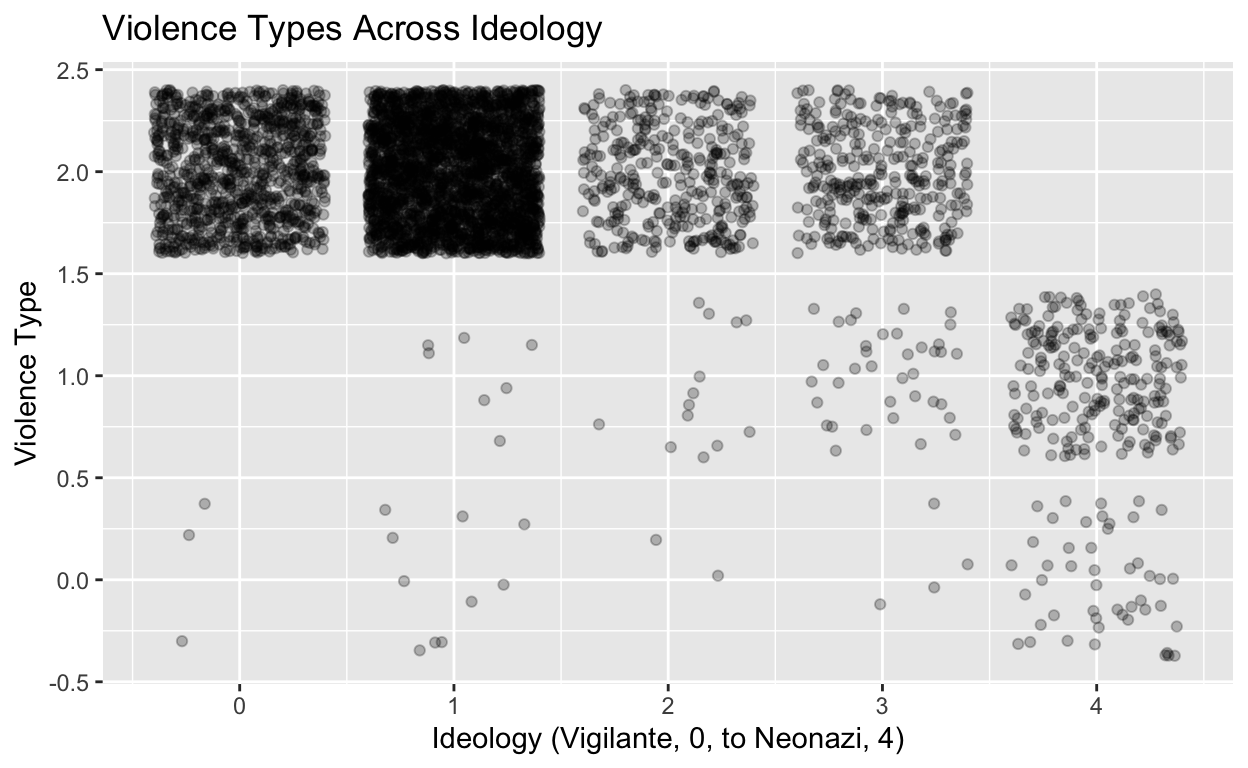
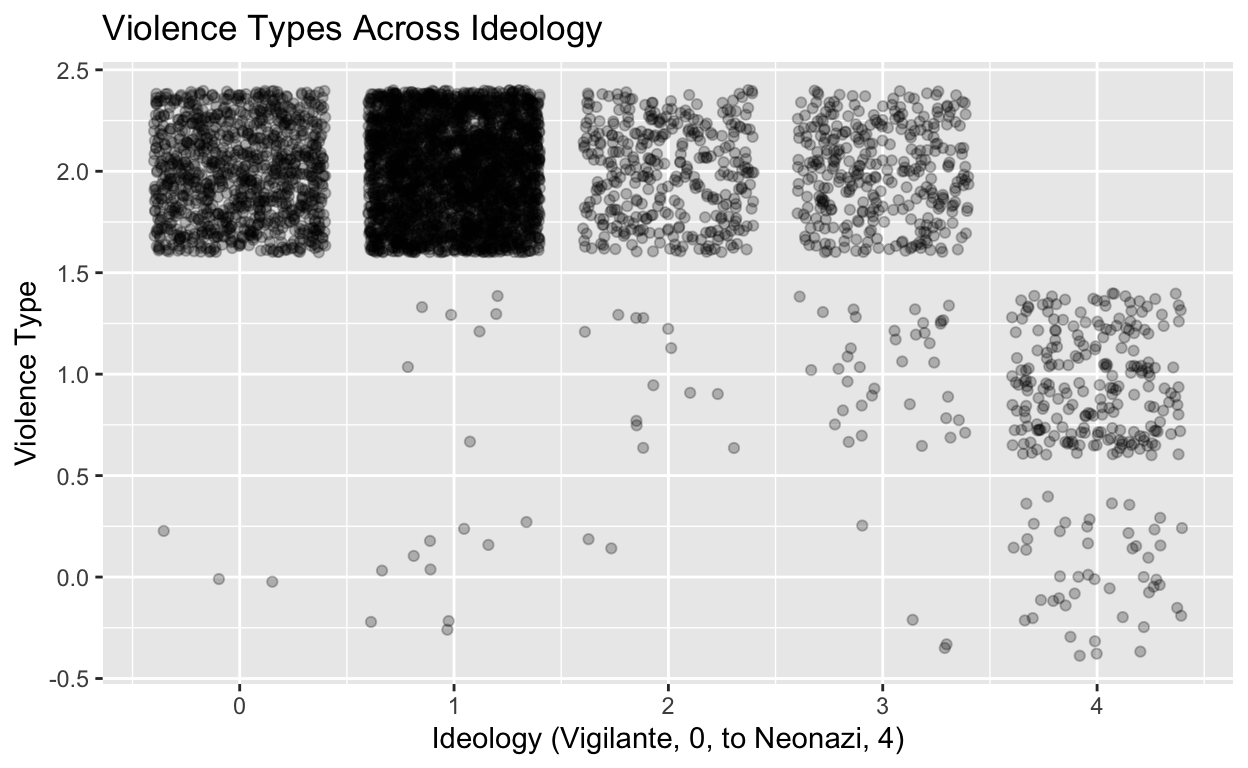
knit

diff --git a/index.html b/index.html
@@ -88,29 +88,29 @@ code span.wa { color: #5e5e5e; font-style: italic; } /* Warning */
 
 
   <!--radix_placeholder_meta_tags-->
-  <title>Gov 50 Final Project</title>
+  <title>Terrorist Ideology, Violence Type, and Selectivity</title>
 
-  <meta property="description" itemprop="description" content="Terrorist Ideology, Violence Type, and Selectivity"/>
+  <meta property="description" itemprop="description" content="A report to identify a causal relationship between terrorist ideology and types of violence as well as selectivity of attacks."/>
 
 
   <meta name="article:author" content="Emma Lucas"/>
 
   <!--  https://developers.facebook.com/docs/sharing/webmasters#markup -->
-  <meta property="og:title" content="Gov 50 Final Project"/>
+  <meta property="og:title" content="Terrorist Ideology, Violence Type, and Selectivity"/>
   <meta property="og:type" content="article"/>
-  <meta property="og:description" content="Terrorist Ideology, Violence Type, and Selectivity"/>
+  <meta property="og:description" content="A report to identify a causal relationship between terrorist ideology and types of violence as well as selectivity of attacks."/>
   <meta property="og:locale" content="en_US"/>
 
   <!--  https://dev.twitter.com/cards/types/summary -->
   <meta property="twitter:card" content="summary"/>
-  <meta property="twitter:title" content="Gov 50 Final Project"/>
-  <meta property="twitter:description" content="Terrorist Ideology, Violence Type, and Selectivity"/>
+  <meta property="twitter:title" content="Terrorist Ideology, Violence Type, and Selectivity"/>
+  <meta property="twitter:description" content="A report to identify a causal relationship between terrorist ideology and types of violence as well as selectivity of attacks."/>
 
   <!--/radix_placeholder_meta_tags-->
   <!--radix_placeholder_rmarkdown_metadata-->
 
   <script type="text/json" id="radix-rmarkdown-metadata">
-  {"type":"list","attributes":{"names":{"type":"character","attributes":{},"value":["title","author","description","output"]}},"value":[{"type":"character","attributes":{},"value":["Gov 50 Final Project"]},{"type":"list","attributes":{},"value":[{"type":"list","attributes":{"names":{"type":"character","attributes":{},"value":["name"]}},"value":[{"type":"character","attributes":{},"value":["Emma Lucas"]}]}]},{"type":"character","attributes":{},"value":["Terrorist Ideology, Violence Type, and Selectivity"]},{"type":"list","attributes":{"names":{"type":"character","attributes":{},"value":["distill::distill_article"]}},"value":[{"type":"list","attributes":{"names":{"type":"character","attributes":{},"value":["self_contained"]}},"value":[{"type":"logical","attributes":{},"value":[false]}]}]}]}
+  {"type":"list","attributes":{"names":{"type":"character","attributes":{},"value":["title","author","description","output"]}},"value":[{"type":"character","attributes":{},"value":["Terrorist Ideology, Violence Type, and Selectivity"]},{"type":"list","attributes":{},"value":[{"type":"list","attributes":{"names":{"type":"character","attributes":{},"value":["name"]}},"value":[{"type":"character","attributes":{},"value":["Emma Lucas"]}]}]},{"type":"character","attributes":{},"value":["A report to identify a causal relationship between terrorist ideology and types of violence as well as selectivity of attacks."]},{"type":"list","attributes":{"names":{"type":"character","attributes":{},"value":["distill::distill_article"]}},"value":[{"type":"list","attributes":{"names":{"type":"character","attributes":{},"value":["self_contained"]}},"value":[{"type":"logical","attributes":{},"value":[false]}]}]}]}
   </script>
   <!--/radix_placeholder_rmarkdown_metadata-->
   
@@ -1520,7 +1520,7 @@ code span.wa { color: #5e5e5e; font-style: italic; } /* Warning */
 <!--radix_placeholder_front_matter-->
 
 <script id="distill-front-matter" type="text/json">
-{"title":"Gov 50 Final Project","description":"Terrorist Ideology, Violence Type, and Selectivity","authors":[{"author":"Emma Lucas","authorURL":"#","affiliation":"&nbsp;","affiliationURL":"#","orcidID":""}]}
+{"title":"Terrorist Ideology, Violence Type, and Selectivity","description":"A report to identify a causal relationship between terrorist ideology and types of violence as well as selectivity of attacks.","authors":[{"author":"Emma Lucas","authorURL":"#","affiliation":"&nbsp;","affiliationURL":"#","orcidID":""}]}
 </script>
 
 <!--/radix_placeholder_front_matter-->
@@ -1530,11 +1530,11 @@ code span.wa { color: #5e5e5e; font-style: italic; } /* Warning */
 <!--/radix_placeholder_site_before_body-->
 
 <div class="d-title">
-<h1>Gov 50 Final Project</h1>
+<h1>Terrorist Ideology, Violence Type, and Selectivity</h1>
 
 <!--radix_placeholder_categories-->
 <!--/radix_placeholder_categories-->
-<p>Terrorist Ideology, Violence Type, and Selectivity</p>
+<p>A report to identify a causal relationship between terrorist ideology and types of violence as well as selectivity of attacks.</p>
 </div>
 
 <div class="d-byline">
@@ -1545,14 +1545,11 @@ code span.wa { color: #5e5e5e; font-style: italic; } /* Warning */
 </div>
 
 <div class="d-article">
-<h2 id="introduction-describe-the-research-question-and-main-hypothesis-describe-why-it-is-important.-1-2-paragraphs-2pts">Introduction: describe the research question and main hypothesis; describe why it is important. (1-2 paragraphs) (2pts)</h2>
-<p>For my final project, I was interested in exploring data related to domestic terrorism, violence, and ideology. How does the ideological orientation of domestic terrorist perpetrators influence, if at all, the type of political violence and the selectivity of said violence? In this study, I examined whether or not certain types and selectivity of terrorist violence can indicate patterns and trends within specific ideologies.</p>
-<p>I hypothesise that less extreme ideologies will have less organised and wide-scale types of violence and that they will be less selective in their attacks. Less extreme ideologies, while still passionate about their causes, are less likely to take greater steps to ensure their causes. The more the ideology deviates from the norm, the more inclined terrorist organisations are to act out to bring attention to their cause. I also predict that less extreme ideologies will be smaller-scaled in terms of selectivity whereas more extreme ideologies will be larger-scaled. My explanatory variable of interest is what ideology the terrorist group aligns with.</p>
-<h2 id="data-section-2-3-paragraphs-plot-visualizing-main-outcome-of-interest.-3pts">Data Section: 2-3 paragraphs + plot visualizing main outcome of interest. (3pts)</h2>
-<p>The dataset currently holds information on all terrorist attacks from 1965 to 2005 carried out by domestic terrorist organizations in European nations. Each data point represents an individually killed as a directly result of the terrorist attack. To gather the data, researchers relied on pre-existing datasets of terrorist killings (mainly TWEED and Global Terrorism Database), as well as information from NGOs, websites dedicated in memory to victims, local and state news reports, annual government reports, and sometimes even reports from terrorist organisations themselves. These sources were cross-referenced, and the researchers acknowledge that this could give way to issues of under-reporting.</p>
-<p>My research is cross-sectional, as it uses data from a particular point in time to draw conclusions. While the data contains information from the years 1965 to 2005, it does not analysis whether domestic terrorists attacks have changed over time, and thus all data points can be treated as a “snapshot.” In other words, time was not a variable in the dataset. The dataset focuses on correlation and patterns rather than causal effects due to the nature of the data collection. Thus, there are no explicitly defined independent or dependent variables in the dataset. However, my study tests whether a causal relationship could exist between the independent variable, Ideology, and dependent variables, ViolenceType and Selectivity.</p>
-<p>In the dataset, Ideology represents the ideological orientation of the perpetrators, an adaptation of Sánchez-Cuenca and De la Calle (2009), ranging from Vigilante (0), Nationalist (1), Extreme-left (2), Extreme-right (3), and Neonazi (4). Ideology is a codified variable, with each view corresponding to a number 0-4. My outcome variables of interests are ViolenceType and Selectivity. Violencetype represents three forms of political violence: urban political violence (0), diffuse terrorism (1), and organised terrorism (2). This variable is also codified from 0-2. Urban political violence refers to non-planned, often gang-related incidents of violence. Diffuse terrorism refers to smaller-scale organisational killings. Organised terrorism refers to planned attacks carried out by organised groups. Finally, Selectivity represents the degree of selectivity of domestic terrorist attacks. Attacks are classified by Individual (selective) killings (1), State killing (security forces and State officials) (2), group killing (social traits) (3), Society killing (4), Collateral killing (5), or Mistake (6).</p>
-<p>If I observe greater numbers of ViolenceType 0-1 and Selectivity 1-3 and 6 in less extreme ideologies, this will provide support for my hypothesis. If I observe greater numbers of ViolenceType 1-2 and Selectivity 3-5 in more extreme ideologies, this will also provide support for my hypothesis. This would be disproved if ViolenceType and Selectivity did not vary across ideology and rather were randomised.</p>
+<h2 id="introduction">Introduction</h2>
+<p>For my final project, I was interested in exploring data related to domestic terrorism, violence, and ideology. How does the ideological orientation of domestic terrorist perpetrators influence, if at all, the type of political violence and the selectivity of said violence? In this study, I examined whether or not certain types and selectivity of terrorist violence can indicate patterns and trends within specific ideologies. I hypothesise that less extreme ideologies will have less organised and less wide-scale types of violence and that they will be less selective in their attacks. Less extreme ideologies, while still passionate about their causes, are less likely to take greater steps to ensure their causes. The more the ideology deviates from the norm, the more inclined terrorist organisations are to act out to bring attention to their cause. I also predict that less extreme ideologies will be smaller-scaled in terms of selectivity whereas more extreme ideologies will be larger-scaled and more selective. Neonazis, for instance, will have a set of targeted groups they wish to insue violence on. My explanatory variable of interest is what ideology the terrorist group aligns with.</p>
+<h2 id="data-section">Data Section</h2>
+<p>The dataset currently holds information on all terrorist attacks from 1965 to 2005 carried out by domestic terrorist organizations in European nations. Each data point represents an individually killed as a directly result of the terrorist attack. To gather the data, researchers relied on pre-existing datasets of terrorist killings (mainly TWEED and Global Terrorism Database), as well as information from NGOs, websites dedicated in memory to victims, local and state news reports, annual government reports, and sometimes even reports from terrorist organisations themselves. These sources were cross-referenced, and the researchers acknowledge that this could give way to issues of under-reporting. In the dataset, Ideology represents the ideological orientation of the perpetrators, an adaptation of Sánchez-Cuenca and De la Calle (2009), ranging from Vigilante (0), Nationalist (1), Extreme-left (2), Extreme-right (3), and Neonazi (4). Ideology is a codified variable, with each view corresponding to a number 0-4. My outcome variables of interests are ViolenceType and Selectivity. Violencetype represents three forms of political violence: urban political violence (0), diffuse terrorism (1), and organised terrorism (2). This variable is also codified from 0-2. Urban political violence refers to non-planned, often gang-related incidents of violence. Diffuse terrorism refers to smaller-scale organisational killings. Organised terrorism refers to planned attacks carried out by organised groups. Finally, Selectivity represents the degree of selectivity of domestic terrorist attacks. Attacks are classified by Individual (selective) killings (1), State killing (security forces and State officials) (2), group killing (social traits) (3), Society killing (4), Collateral killing (5), or Mistake (6).</p>
+<p>My research is cross-sectional and correlational in its design, as it uses data from a particular point in time to draw conclusions. While the data contains information from the years 1965 to 2005, it does not analysis whether domestic terrorists attacks have changed over time, and thus all data points can be treated as a “snapshot.” In other words, time was not a variable in the dataset. The dataset focuses on correlation and patterns rather than causal effects due to the nature of the data collection. Thus, there are no explicitly defined independent or dependent variables in the dataset. However, my study seeks whether a causal relationship exists between my independent variable, Ideology, and dependent variables, ViolenceType and Selectivity. If I observe greater numbers of ViolenceType 0 and 1 and Selectivity 1, 2, and 6 in less extreme ideologies (Ideology 0 and 1), this will provide support for my hypothesis. If I observe greater numbers of ViolenceType 1 and 2 and Selectivity 3-5 in more extreme ideologies (Ideology 2, 3, and 4), this will also provide support for my hypothesis. This would be disproved if ViolenceType and Selectivity did not vary across ideology and rather were randomised.</p>
 <div class="layout-chunk" data-layout="l-body">
 <div class="sourceCode">
 <pre class="sourceCode r"><code class="sourceCode r"><span><span class='co'>#install.packages("distill")</span></span>
@@ -1561,6 +1558,7 @@ code span.wa { color: #5e5e5e; font-style: italic; } /* Warning */
 <span><span class='kw'><a href='https://rdrr.io/r/base/library.html'>library</a></span><span class='op'>(</span><span class='va'><a href='https://haven.tidyverse.org'>haven</a></span><span class='op'>)</span></span>
 <span><span class='kw'><a href='https://rdrr.io/r/base/library.html'>library</a></span><span class='op'>(</span><span class='va'><a href='https://tidyverse.tidyverse.org'>tidyverse</a></span><span class='op'>)</span></span>
 <span><span class='kw'><a href='https://rdrr.io/r/base/library.html'>library</a></span><span class='op'>(</span><span class='va'><a href='https://ggplot2.tidyverse.org'>ggplot2</a></span><span class='op'>)</span></span>
+<span><span class='kw'><a href='https://rdrr.io/r/base/library.html'>library</a></span><span class='op'>(</span><span class='va'><a href='https://github.com/tidymodels/infer'>infer</a></span><span class='op'>)</span></span>
 <span></span>
 <span><span class='va'>DTV_1_2009_1</span> <span class='op'>&lt;-</span> <span class='fu'><a href='https://haven.tidyverse.org/reference/read_spss.html'>read_sav</a></span><span class='op'>(</span><span class='st'>"dataverse_files/DTV 1-2009_1.sav"</span><span class='op'>)</span></span>
 <span><span class='va'>DTV_1_2009_2</span> <span class='op'>&lt;-</span> <span class='fu'><a href='https://haven.tidyverse.org/reference/read_spss.html'>read_sav</a></span><span class='op'>(</span><span class='st'>"dataverse_files/DTV 1-2009_1.sav"</span><span class='op'>)</span></span>
@@ -1580,10 +1578,12 @@ code span.wa { color: #5e5e5e; font-style: italic; } /* Warning */
 </div>
 <p><img src="index_files/figure-html5/unnamed-chunk-1-2.png" width="624" /></p>
 </div>
-<h2 id="results-plot-of-main-analysis-regression-output-2-3-paragraphs-of-description-and-interpretation-of-the-plots-and-regression-including-interpreting-the-main-coefficient-of-interest-and-describing-if-it-is-statistically-significant-and-if-we-should-interpret-it-causally.-this-section-could-be-longer-if-you-choose-to-include-additional-analyses.-8pts">Results: plot of main analysis + regression output + 2-3 paragraphs of description and interpretation of the plots and regression (including interpreting the main coefficient of interest and describing if it is statistically significant and if we should interpret it causally). This section could be longer if you choose to include additional analyses. (8pts)</h2>
+<h2 id="results">Results</h2>
 <div class="layout-chunk" data-layout="l-body">
 <div class="sourceCode">
-<pre class="sourceCode r"><code class="sourceCode r"><span><span class='va'>DTV_1_2009_2</span> <span class='op'>|&gt;</span></span>
+<pre class="sourceCode r"><code class="sourceCode r"><span><span class='co'>#Graphs</span></span>
+<span></span>
+<span><span class='va'>DTV_1_2009_2</span> <span class='op'>|&gt;</span></span>
 <span>  <span class='fu'><a href='https://ggplot2.tidyverse.org/reference/ggplot.html'>ggplot</a></span><span class='op'>(</span><span class='fu'><a href='https://ggplot2.tidyverse.org/reference/aes.html'>aes</a></span><span class='op'>(</span>x <span class='op'>=</span> <span class='va'>ideology</span>, y <span class='op'>=</span> <span class='va'>violencetype</span><span class='op'>)</span><span class='op'>)</span>  <span class='op'>+</span> <span class='fu'><a href='https://ggplot2.tidyverse.org/reference/labs.html'>labs</a></span><span class='op'>(</span>title <span class='op'>=</span> <span class='st'>"Violence Types Across Ideology"</span>, x <span class='op'>=</span> <span class='st'>"Ideology (Vigilante, 0, to Neonazi, 4)"</span>, y <span class='op'>=</span> <span class='st'>"Violence Type"</span><span class='op'>)</span> <span class='op'>+</span> <span class='fu'><a href='https://ggplot2.tidyverse.org/reference/geom_jitter.html'>geom_jitter</a></span><span class='op'>(</span>alpha <span class='op'>=</span> <span class='fl'>0.25</span><span class='op'>)</span></span></code></pre>
 </div>
 <img src="index_files/figure-html5/unnamed-chunk-2-1.png" width="624" />
@@ -1593,23 +1593,8 @@ code span.wa { color: #5e5e5e; font-style: italic; } /* Warning */
 </div>
 <img src="index_files/figure-html5/unnamed-chunk-2-2.png" width="624" />
 <div class="sourceCode">
-<pre class="sourceCode r"><code class="sourceCode r"><span><span class='fu'><a href='https://ggplot2.tidyverse.org/reference/ggplot.html'>ggplot</a></span><span class='op'>(</span><span class='va'>DTV_1_2009_1</span>, <span class='fu'><a href='https://ggplot2.tidyverse.org/reference/aes.html'>aes</a></span><span class='op'>(</span>x <span class='op'>=</span> <span class='va'>ideology</span>, y <span class='op'>=</span> <span class='va'>violencetype</span><span class='op'>)</span><span class='op'>)</span> <span class='op'>+</span></span>
-<span>  <span class='fu'><a href='https://ggplot2.tidyverse.org/reference/geom_jitter.html'>geom_jitter</a></span><span class='op'>(</span>alpha <span class='op'>=</span> <span class='fl'>0.25</span><span class='op'>)</span> <span class='op'>+</span></span>
-<span>  <span class='fu'><a href='https://ggplot2.tidyverse.org/reference/labs.html'>labs</a></span><span class='op'>(</span></span>
-<span>    x <span class='op'>=</span> <span class='st'>"Ideology"</span>,</span>
-<span>    y <span class='op'>=</span> <span class='st'>"Violence Type"</span>,</span>
-<span>    title <span class='op'>=</span> <span class='st'>"Ideology and Violence Type"</span></span>
-<span>  <span class='op'>)</span> <span class='op'>+</span></span>
-<span>  <span class='fu'><a href='https://ggplot2.tidyverse.org/reference/stat_summary.html'>stat_summary_bin</a></span><span class='op'>(</span>fun <span class='op'>=</span> <span class='st'>"mean"</span>, color <span class='op'>=</span> <span class='st'>"indianred1"</span>, size <span class='op'>=</span> <span class='fl'>3</span>,</span>
-<span>                   geom <span class='op'>=</span> <span class='st'>"point"</span>, binwidth <span class='op'>=</span> <span class='fl'>1</span><span class='op'>)</span></span></code></pre>
-</div>
-<img src="index_files/figure-html5/unnamed-chunk-2-3.png" width="624" />
-<div class="sourceCode">
-<pre class="sourceCode r"><code class="sourceCode r"><span><span class='va'>regression</span> <span class='op'>&lt;-</span> <span class='fu'><a href='https://rdrr.io/r/stats/lm.html'>lm</a></span><span class='op'>(</span><span class='va'>ideology</span> <span class='op'>~</span> <span class='va'>selectivity</span> <span class='op'>+</span> <span class='va'>violencetype</span>,</span>
-<span>               data <span class='op'>=</span> <span class='va'>DTV_1_2009_1</span><span class='op'>)</span></span>
-<span><span class='fu'>modelsummary</span><span class='fu'>::</span><span class='fu'><a href='https://rdrr.io/pkg/modelsummary/man/modelsummary.html'>modelsummary</a></span><span class='op'>(</span><span class='va'>regression</span>,</span>
-<span>                           statistic <span class='op'>=</span> <span class='fu'><a href='https://rdrr.io/r/base/c.html'>c</a></span><span class='op'>(</span><span class='st'>"s.e. = {std.error}"</span>,</span>
-<span>                                         <span class='st'>"p = {p.value}"</span><span class='op'>)</span>,</span>
+<pre class="sourceCode r"><code class="sourceCode r"><span><span class='va'>selectivity_regression</span> <span class='op'>&lt;-</span> <span class='fu'><a href='https://rdrr.io/r/stats/lm.html'>lm</a></span><span class='op'>(</span><span class='va'>selectivity</span> <span class='op'>~</span> <span class='fu'><a href='https://rdrr.io/r/base/factor.html'>as.factor</a></span><span class='op'>(</span><span class='va'>ideology</span><span class='op'>)</span>, data <span class='op'>=</span> <span class='va'>DTV_1_2009_1</span><span class='op'>)</span></span>
+<span><span class='fu'>modelsummary</span><span class='fu'>::</span><span class='fu'><a href='https://rdrr.io/pkg/modelsummary/man/modelsummary.html'>modelsummary</a></span><span class='op'>(</span><span class='va'>selectivity_regression</span>, statistic <span class='op'>=</span> <span class='st'>"p.value"</span>, </span>
 <span>                           gof_map <span class='op'>=</span> <span class='fu'><a href='https://rdrr.io/r/base/c.html'>c</a></span><span class='op'>(</span><span class='st'>"nobs"</span>, <span class='st'>"r.squared"</span>, <span class='st'>"adj.r.squared"</span><span class='op'>)</span><span class='op'>)</span></span></code></pre>
 </div>
 <table class="table" style="width: auto !important; margin-left: auto; margin-right: auto;">
@@ -1628,65 +1613,74 @@ code span.wa { color: #5e5e5e; font-style: italic; } /* Warning */
 (Intercept)
 </td>
 <td style="text-align:center;">
-4.819
+2.945
 </td>
 </tr>
 <tr>
 <td style="text-align:left;">
 </td>
 <td style="text-align:center;">
-s.e. = 0.077
+(&lt;0.001)
+</td>
+</tr>
+<tr>
+<td style="text-align:left;">
+as.factor(ideology)1
+</td>
+<td style="text-align:center;">
+−0.477
 </td>
 </tr>
 <tr>
 <td style="text-align:left;">
 </td>
 <td style="text-align:center;">
-p = &lt;0.001
+(&lt;0.001)
 </td>
 </tr>
 <tr>
 <td style="text-align:left;">
-selectivity
+as.factor(ideology)2
 </td>
 <td style="text-align:center;">
-0.024
-</td>
-</tr>
-<tr>
-<td style="text-align:left;">
-</td>
-<td style="text-align:center;">
-s.e. = 0.010
+−0.544
 </td>
 </tr>
 <tr>
 <td style="text-align:left;">
 </td>
 <td style="text-align:center;">
-p = 0.011
+(&lt;0.001)
 </td>
 </tr>
 <tr>
 <td style="text-align:left;">
-violencetype
+as.factor(ideology)3
 </td>
 <td style="text-align:center;">
-−1.931
+0.463
 </td>
 </tr>
 <tr>
 <td style="text-align:left;">
 </td>
 <td style="text-align:center;">
-s.e. = 0.036
+(&lt;0.001)
+</td>
+</tr>
+<tr>
+<td style="text-align:left;">
+as.factor(ideology)4
+</td>
+<td style="text-align:center;">
+0.018
 </td>
 </tr>
 <tr>
 <td style="text-align:left;box-shadow: 0px 1.5px">
 </td>
 <td style="text-align:center;box-shadow: 0px 1.5px">
-p = &lt;0.001
+(0.825)
 </td>
 </tr>
 <tr>
@@ -1702,7 +1696,7 @@ Num.Obs.
 R2
 </td>
 <td style="text-align:center;">
-0.368
+0.063
 </td>
 </tr>
 <tr>
@@ -1710,17 +1704,134 @@ R2
 R2 Adj.
 </td>
 <td style="text-align:center;">
-0.368
+0.062
+</td>
+</tr>
+</tbody>
+</table>
+<div class="sourceCode">
+<pre class="sourceCode r"><code class="sourceCode r"><span><span class='va'>violencetype_regression</span> <span class='op'>&lt;-</span> <span class='fu'><a href='https://rdrr.io/r/stats/lm.html'>lm</a></span><span class='op'>(</span><span class='va'>violencetype</span> <span class='op'>~</span> <span class='fu'><a href='https://rdrr.io/r/base/factor.html'>as.factor</a></span><span class='op'>(</span><span class='va'>ideology</span><span class='op'>)</span>, data <span class='op'>=</span> <span class='va'>DTV_1_2009_1</span><span class='op'>)</span></span>
+<span><span class='fu'>modelsummary</span><span class='fu'>::</span><span class='fu'><a href='https://rdrr.io/pkg/modelsummary/man/modelsummary.html'>modelsummary</a></span><span class='op'>(</span><span class='va'>violencetype_regression</span>, statistic <span class='op'>=</span> <span class='st'>"p.value"</span>, </span>
+<span>                           gof_map <span class='op'>=</span> <span class='fu'><a href='https://rdrr.io/r/base/c.html'>c</a></span><span class='op'>(</span><span class='st'>"nobs"</span>, <span class='st'>"r.squared"</span>, <span class='st'>"adj.r.squared"</span><span class='op'>)</span><span class='op'>)</span></span></code></pre>
+</div>
+<table class="table" style="width: auto !important; margin-left: auto; margin-right: auto;">
+<thead>
+<tr>
+<th style="text-align:left;">
+</th>
+<th style="text-align:center;">
+ (1)
+</th>
+</tr>
+</thead>
+<tbody>
+<tr>
+<td style="text-align:left;">
+(Intercept)
+</td>
+<td style="text-align:center;">
+1.994
+</td>
+</tr>
+<tr>
+<td style="text-align:left;">
+</td>
+<td style="text-align:center;">
+(&lt;0.001)
+</td>
+</tr>
+<tr>
+<td style="text-align:left;">
+as.factor(ideology)1
+</td>
+<td style="text-align:center;">
+−0.003
+</td>
+</tr>
+<tr>
+<td style="text-align:left;">
+</td>
+<td style="text-align:center;">
+(0.603)
+</td>
+</tr>
+<tr>
+<td style="text-align:left;">
+as.factor(ideology)2
+</td>
+<td style="text-align:center;">
+−0.041
+</td>
+</tr>
+<tr>
+<td style="text-align:left;">
+</td>
+<td style="text-align:center;">
+(&lt;0.001)
+</td>
+</tr>
+<tr>
+<td style="text-align:left;">
+as.factor(ideology)3
+</td>
+<td style="text-align:center;">
+−0.115
+</td>
+</tr>
+<tr>
+<td style="text-align:left;">
+</td>
+<td style="text-align:center;">
+(&lt;0.001)
+</td>
+</tr>
+<tr>
+<td style="text-align:left;">
+as.factor(ideology)4
+</td>
+<td style="text-align:center;">
+−1.170
+</td>
+</tr>
+<tr>
+<td style="text-align:left;box-shadow: 0px 1.5px">
+</td>
+<td style="text-align:center;box-shadow: 0px 1.5px">
+(&lt;0.001)
+</td>
+</tr>
+<tr>
+<td style="text-align:left;">
+Num.Obs.
+</td>
+<td style="text-align:center;">
+4955
+</td>
+</tr>
+<tr>
+<td style="text-align:left;">
+R2
+</td>
+<td style="text-align:center;">
+0.675
+</td>
+</tr>
+<tr>
+<td style="text-align:left;">
+R2 Adj.
+</td>
+<td style="text-align:center;">
+0.675
 </td>
 </tr>
 </tbody>
 </table>
 </div>
-<p>#As seen from the “Violence Types Across Ideology” graph, there are almost triple the number of terrorist groups with Ideology 1 (Nationalist(pro-secession)) compared to the second largest pool of terrorist groups, Ideology 0 (Vigilante (against secession)). From greatest to least with the remaining groups, Ideology 3 (Extreme-right), Ideology 2 (Extreme-left), and Ideology 4 (Neonazi) are a bit less than half that of ideology 0.</p>
-<p>As seen from the “Violence Types Across Ideology” graph, we see the largest concentration of attacks around Ideology 1 (Nationalist) and Violence Type 2 (organized terrorism). We also see a large concentration of attacks around Ideology 0 (Vigilante) and Violence Type 2 (organised terrorism). When looking across the horizontal axis, it can be said that Violence Type 2 (organised terrorism) is the most concentrated overall compared to Violence Type 0 (urban political violence) and 1 (diffuse terrorism), regardless of ideology. Besides Ideology 4 (neonazi) and Violence Type 1 (diffuse terrorism), there is not a dense concentration of attacks in either Violence Type 0 (urban political violence) or Violence Type 1 (diffuse terrorism). Ideology 0 (Vigilante) and Violence Type 1 (diffuse terrorism) have no points, nor does Ideology 4 (Neonazi) and Violence Type 2 (organised terrorism).</p>
-<p>When comparing this to the “Selectivity Across Ideology” graph, which measures attack selectivity across ideology, we observe the largest concentration in Ideology 1 (Nationalist) and Selectivity 2 (state killing). The second largest concentration is in Ideology 0 (Vigilante) and Selectivity 3 (group killing). When looking across the horizontal axis, it is less clear what Selectivity is most concentrated, although upon observation it appears to be either Selectivity 2 (state killing) or Selectivity 3 (group killing).</p>
+<p>As seen from the “Violence Types Across Ideology” graph, we see the largest concentration of attacks around Ideology 1 (Nationalist) and Violence Type 2 (organized terrorism). We also see a large concentration of attacks around Ideology 0 (Vigilante) and Violence Type 2 (organised terrorism). When looking across the horizontal axis, it can be said that Violence Type 2 (organised terrorism) is the most concentrated overall compared to Violence Type 0 (urban political violence) and 1 (diffuse terrorism), regardless of ideology. Besides Ideology 4 (neonazi) and Violence Type 1 (diffuse terrorism), there is not a dense concentration of attacks in either Violence Type 0 (urban political violence) or Violence Type 1 (diffuse terrorism). Ideology 0 (Vigilante) and Violence Type 1 (diffuse terrorism) have no points, nor does Ideology 4 (Neonazi) and Violence Type 2 (organised terrorism). When comparing this to the “Selectivity Across Ideology” graph, which measures attack selectivity across ideology, we observe the largest concentration in Ideology 1 (Nationalist) and Selectivity 2 (state killing). The second largest concentration is in Ideology 0 (Vigilante) and Selectivity 3 (group killing). When looking across the horizontal axis, it is less clear what Selectivity is most concentrated, although upon observation it appears to be either Selectivity 2 (state killing) or Selectivity 3 (group killing).</p>
+<p>The first regression model is a regression of selectivity as the dependent variable and ideology as the main independent variable. It uses the as.factor() function for ideology because each codified variable represents a separate entity rather than a continual scope. Ideology 0 (Vigilante) has a coefficient of 2.945, Ideology 1 (Nationalist) is -0.477, Ideology 2 (Extreme left) is -0.544, Ideology 3 (Extreme right) is 0.463, and Ideology 4 (neonazi) is 0.018. In the context of this study, individuals subscribing to Ideology 0, for instance, increased their selectivity of attacks by 2.945 units. The same analysis can be done for individuals of Ideology 1, who decrease their selectivity of attacks by 0.477 units. Coefficients on Ideologies 0, 1, 2, and 3 are statistically significant, whereas Ideology 4 is not. The second regression model is a regression of violence type as the dependent variable and ideology as the main independent variable. Ideology 0 (Vigilante) has a coefficient of 1.994, Ideology 1 (Nationalist) is -0.003, Ideology 2 (Extreme left) is -0.041, Ideology 3 (Extreme right) is -0.115, and Ideology 4 (neonazi) is -1.170. In the context of this study, individuals subscribing to Ideology 2, for instance, decreased their violence type of attacks by -0.041 units. The same analysis can be done for individuals on the other extreme in Ideology 3, who decrease their violence type of attacks by 0.115 units. The most significant decrease in violence type occurs in Ideology 4, as it is the number with the highest magnitude. Coefficients on Ideologies 0, 2, 3, and 4 are statistically significant, whereas Ideology 1 is not. In order to interpret both regression models causally, we would need further analysis, as we would need to control for other variables, replicate the data, and consider alternative explanations and third-variable problems.</p>
 <h2 id="conclusion-1-paragraph-i-summarizing-results-and-assessing-the-extent-to-which-you-find-support-for-your-hypothesis-ii-describing-limitations-of-the-analysis-and-threats-to-inference-missing-data-confounding-etc-and-stating-how-you-could-improve-your-analysis-if-you-had-more-timemoney.-2pts">Conclusion: 1 paragraph (i) summarizing results and assessing the extent to which you find support for your hypothesis; (ii) describing limitations of the analysis and threats to inference (missing data, confounding, etc), and stating how you could improve your analysis if you had more time/money. (2pts)</h2>
-<p>A major limitation of my analysis is that correlation does not imply causation. Since this was not a randomised control trial (and rather mimics an observational study,) it is hard to say whether ideology is the direct cause of certain violence types and selectivity. In observational studies, researchers observe a naturally assigned treatment, and it is very commonly the case that you often cannot randomise them for ethical and logistical reasons. This raises questions of internal validity, which addresses if causal assumptions are satisfied and if we can interpret this as a causal effect. RCTs usually have higher internal validity, and observational studies have less because the treatment/control groups differ in ways that are hard to measure.</p>
+<p>I hypothesised that less extreme ideologies would have less organised and less selective attacks, and more extreme ideologies would have more organised and more selective attacks. There is little overlap between Ideologies 2 (extreme-left), 3 (extreme-right), and 4 (neonazi) and Violence Type 0 (urban political violence). Instead, we see very little victims in this section, instead falling into Violence Type 2 (organised terrorism), which makes sense given that I hypothesised more extreme acts of violence for more extreme ideologies. However, I hypothesised that there would be overlap between Ideology 0/Ideology 1 and ViolenceType 0/ViolenceType 1 because less extreme ideologies would be less violent. In reality, we see practically no overlap between these and instead, Ideology 0/Ideology 1 attacks are concentrated in ViolenceType 2 (organised terrorism), meaning that less extreme ideologies are correlated with more organised types of violence. Overall, a majority of attacks, regardless of ideology, were acts of organised terrorism. In terms of selectivity, I expected an overlap between Ideology 0/Ideology 1 and Selectivity 1, 2, and 6. We do end up seeing a large concentration of Ideology 1 and Selectivity 2, although Ideology 0 is mainly concentrated in Selectivity 3, suggesting that vigilantes are often involved in targeted group killings. We see that more extreme ideologies (2, 3, and 4) tend to be concentrated around wider acts of violence, showcased in the overlap with Selectivity 2, 3, and 4.</p>
+<p>A major limitation of my analysis is that correlation does not imply causation. Since this was not a randomised control trial (and rather mimics an observational study,) it is hard to say whether ideology is the direct cause of certain violence types and selectivity. In observational studies, researchers observe a naturally assigned treatment, and it is very commonly the case that you often cannot randomise them for ethical and logistical reasons. This raises questions of internal validity, which addresses if causal assumptions are satisfied and if we can interpret this as a causal effect. RCTs usually have higher internal validity, and observational studies have less because the treatment/control groups differ in ways that are hard to measure. If I could improve my analysis, I would take the time to dissect each individual ideology and compared it to each individual violence type and selectivity to find a regression model. This way, the data and analysis would be more specific and then lay the basis of comparison, as opposed to my current approach, which was to compare all the data before putting it into the regression model. Overall, ideology can be an indicator of the types of violence and the scale at which terrorist organisations conduct their attacks, but it requires more in-depth analysis to prove a definitive causal relationship.</p>
 <div class="sourceCode" id="cb1"><pre class="sourceCode r distill-force-highlighting-css"><code class="sourceCode r"></code></pre></div>
 <!--radix_placeholder_article_footer-->
 <!--/radix_placeholder_article_footer-->
